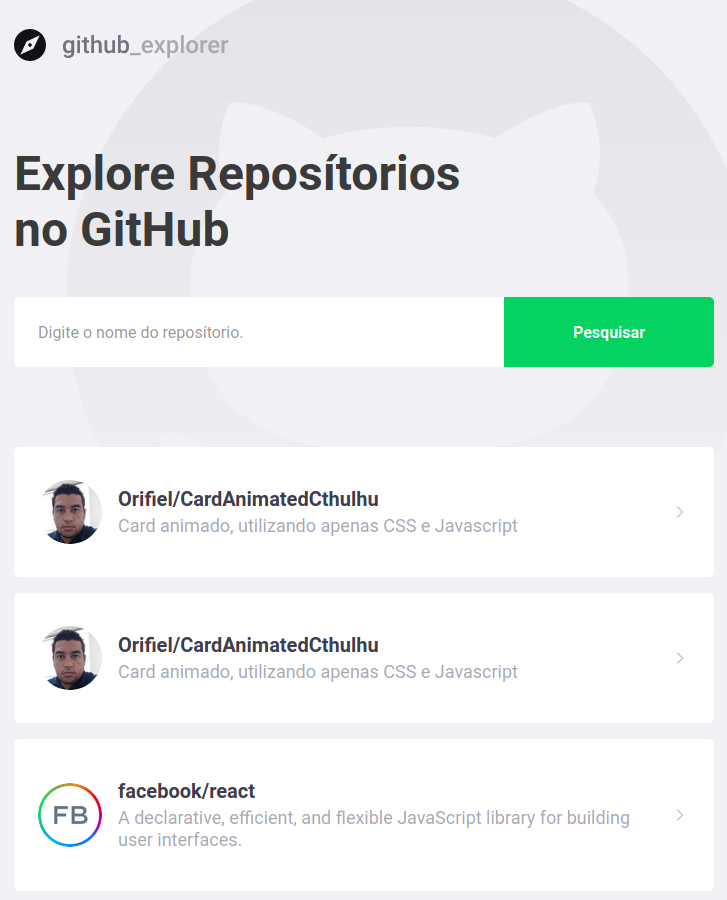
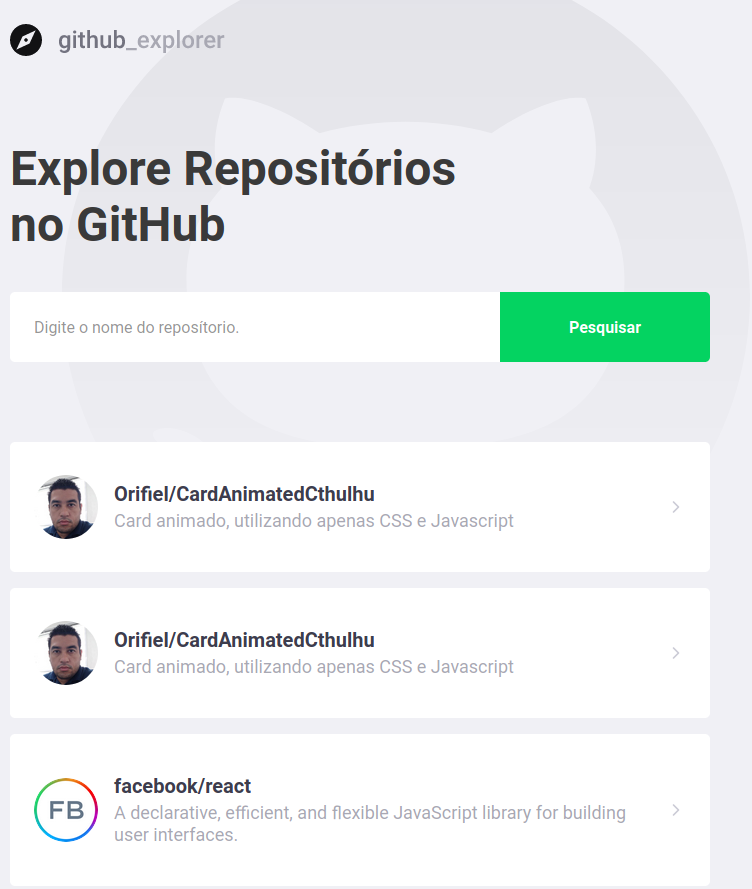
correção gramatical

diff --git a/src/pages/Dashboard/index.tsx b/src/pages/Dashboard/index.tsx
@@ -35,7 +35,7 @@ const Dashboard: React.FC = () => {
   return (
     <>
       <img src={logoImg} alt="github explorer" />
-      <Title>Explore Reposítorios no GitHub</Title>
+      <Title>Explore Repositórios no GitHub</Title>
 
       <Form onSubmit={handleAddRepository}>
         <input
